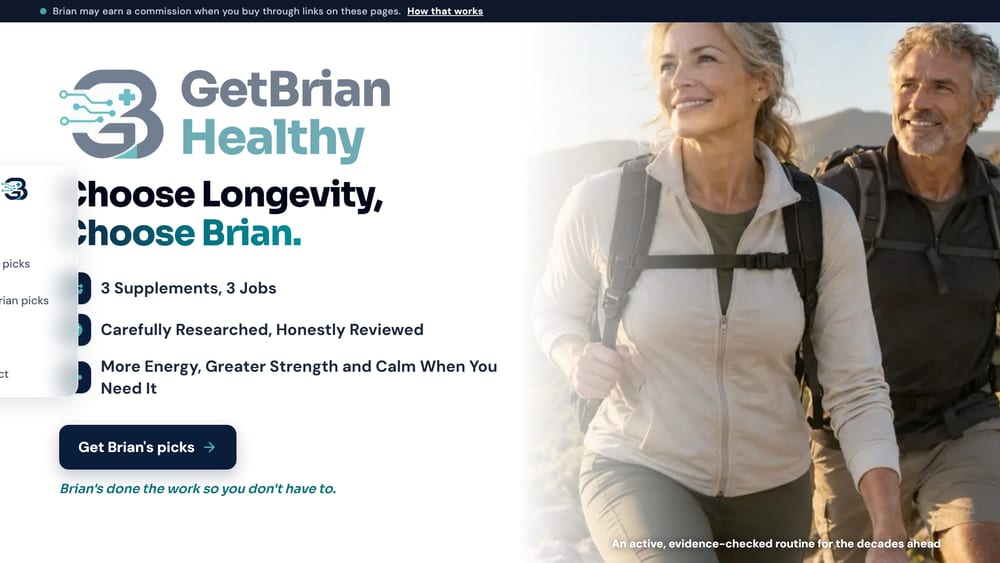
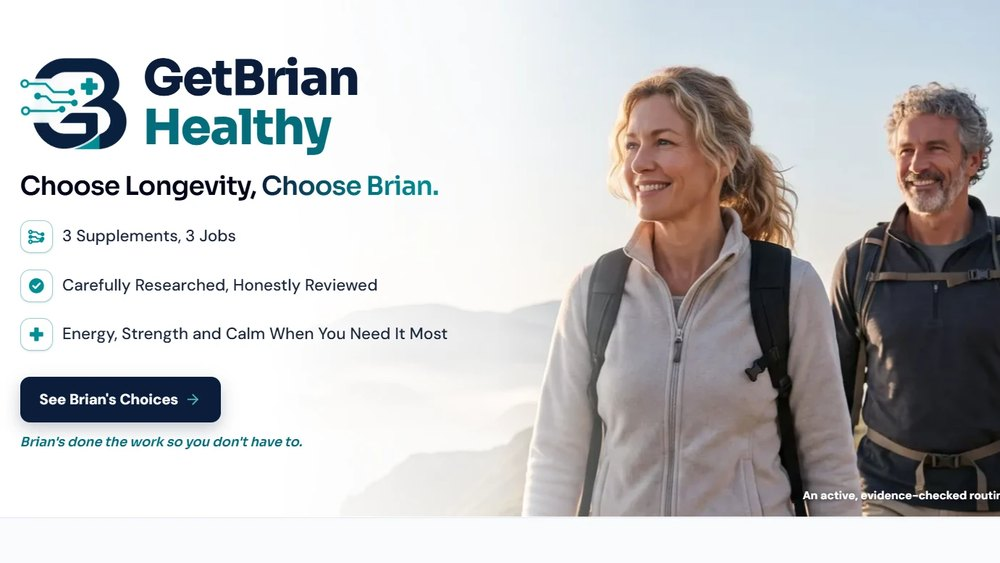
feat(home): new Healthy card screenshot, positioning section after products
Replace the GetBrian Healthy product-card screenshot with the current hero,
cropped to the card's 16:9 plate (1000x563). Move the "No more paid
subscriptions. Brian builds it." section so it sits directly above
"How Brian charges".

diff --git a/src/app/page.tsx b/src/app/page.tsx
@@ -202,7 +202,9 @@ export default function Home() {
           </div>
         </section>
 
-        {/* Positioning — the frame before the evidence */}
+        <ProductsSection />
+
+        {/* Positioning — the case for building, just before the price */}
         <section className="border-t border-border px-6 py-24">
           <div className="mx-auto max-w-6xl">
             <Reveal className="max-w-2xl">
@@ -226,8 +228,6 @@ export default function Home() {
             </div>
           </div>
         </section>
-
-        <ProductsSection />
 
         <PricingSection />
 
